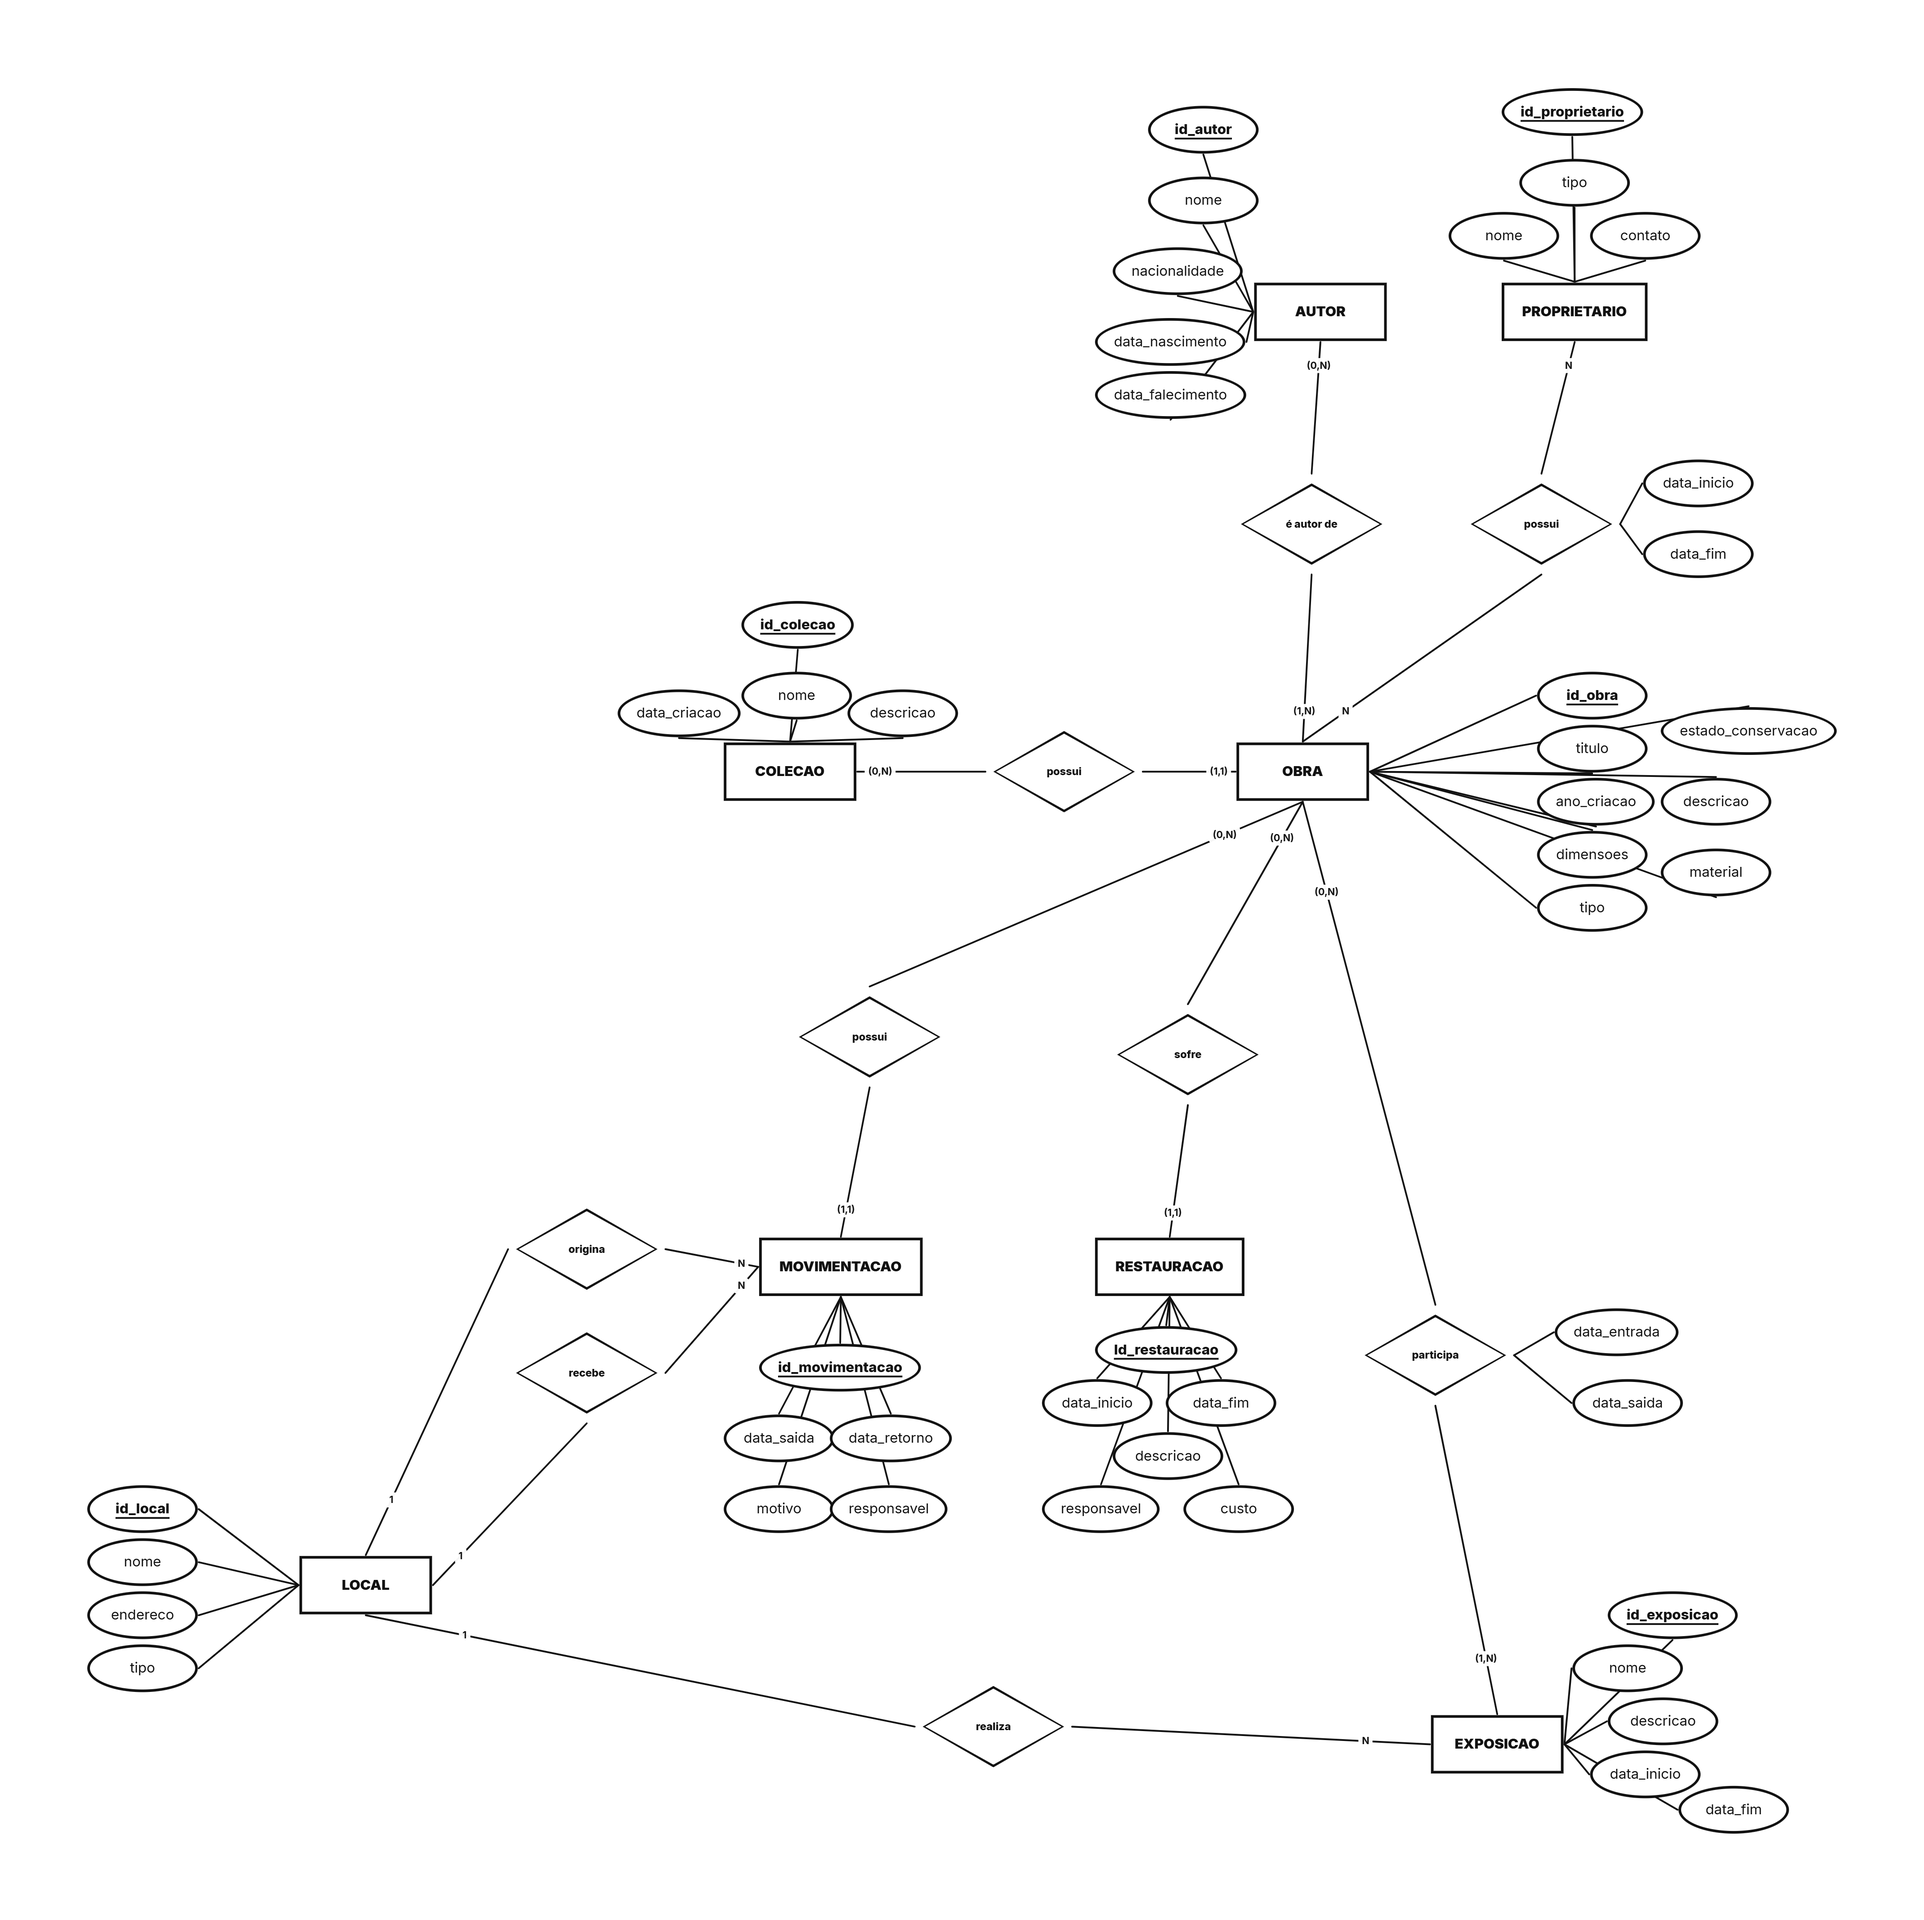
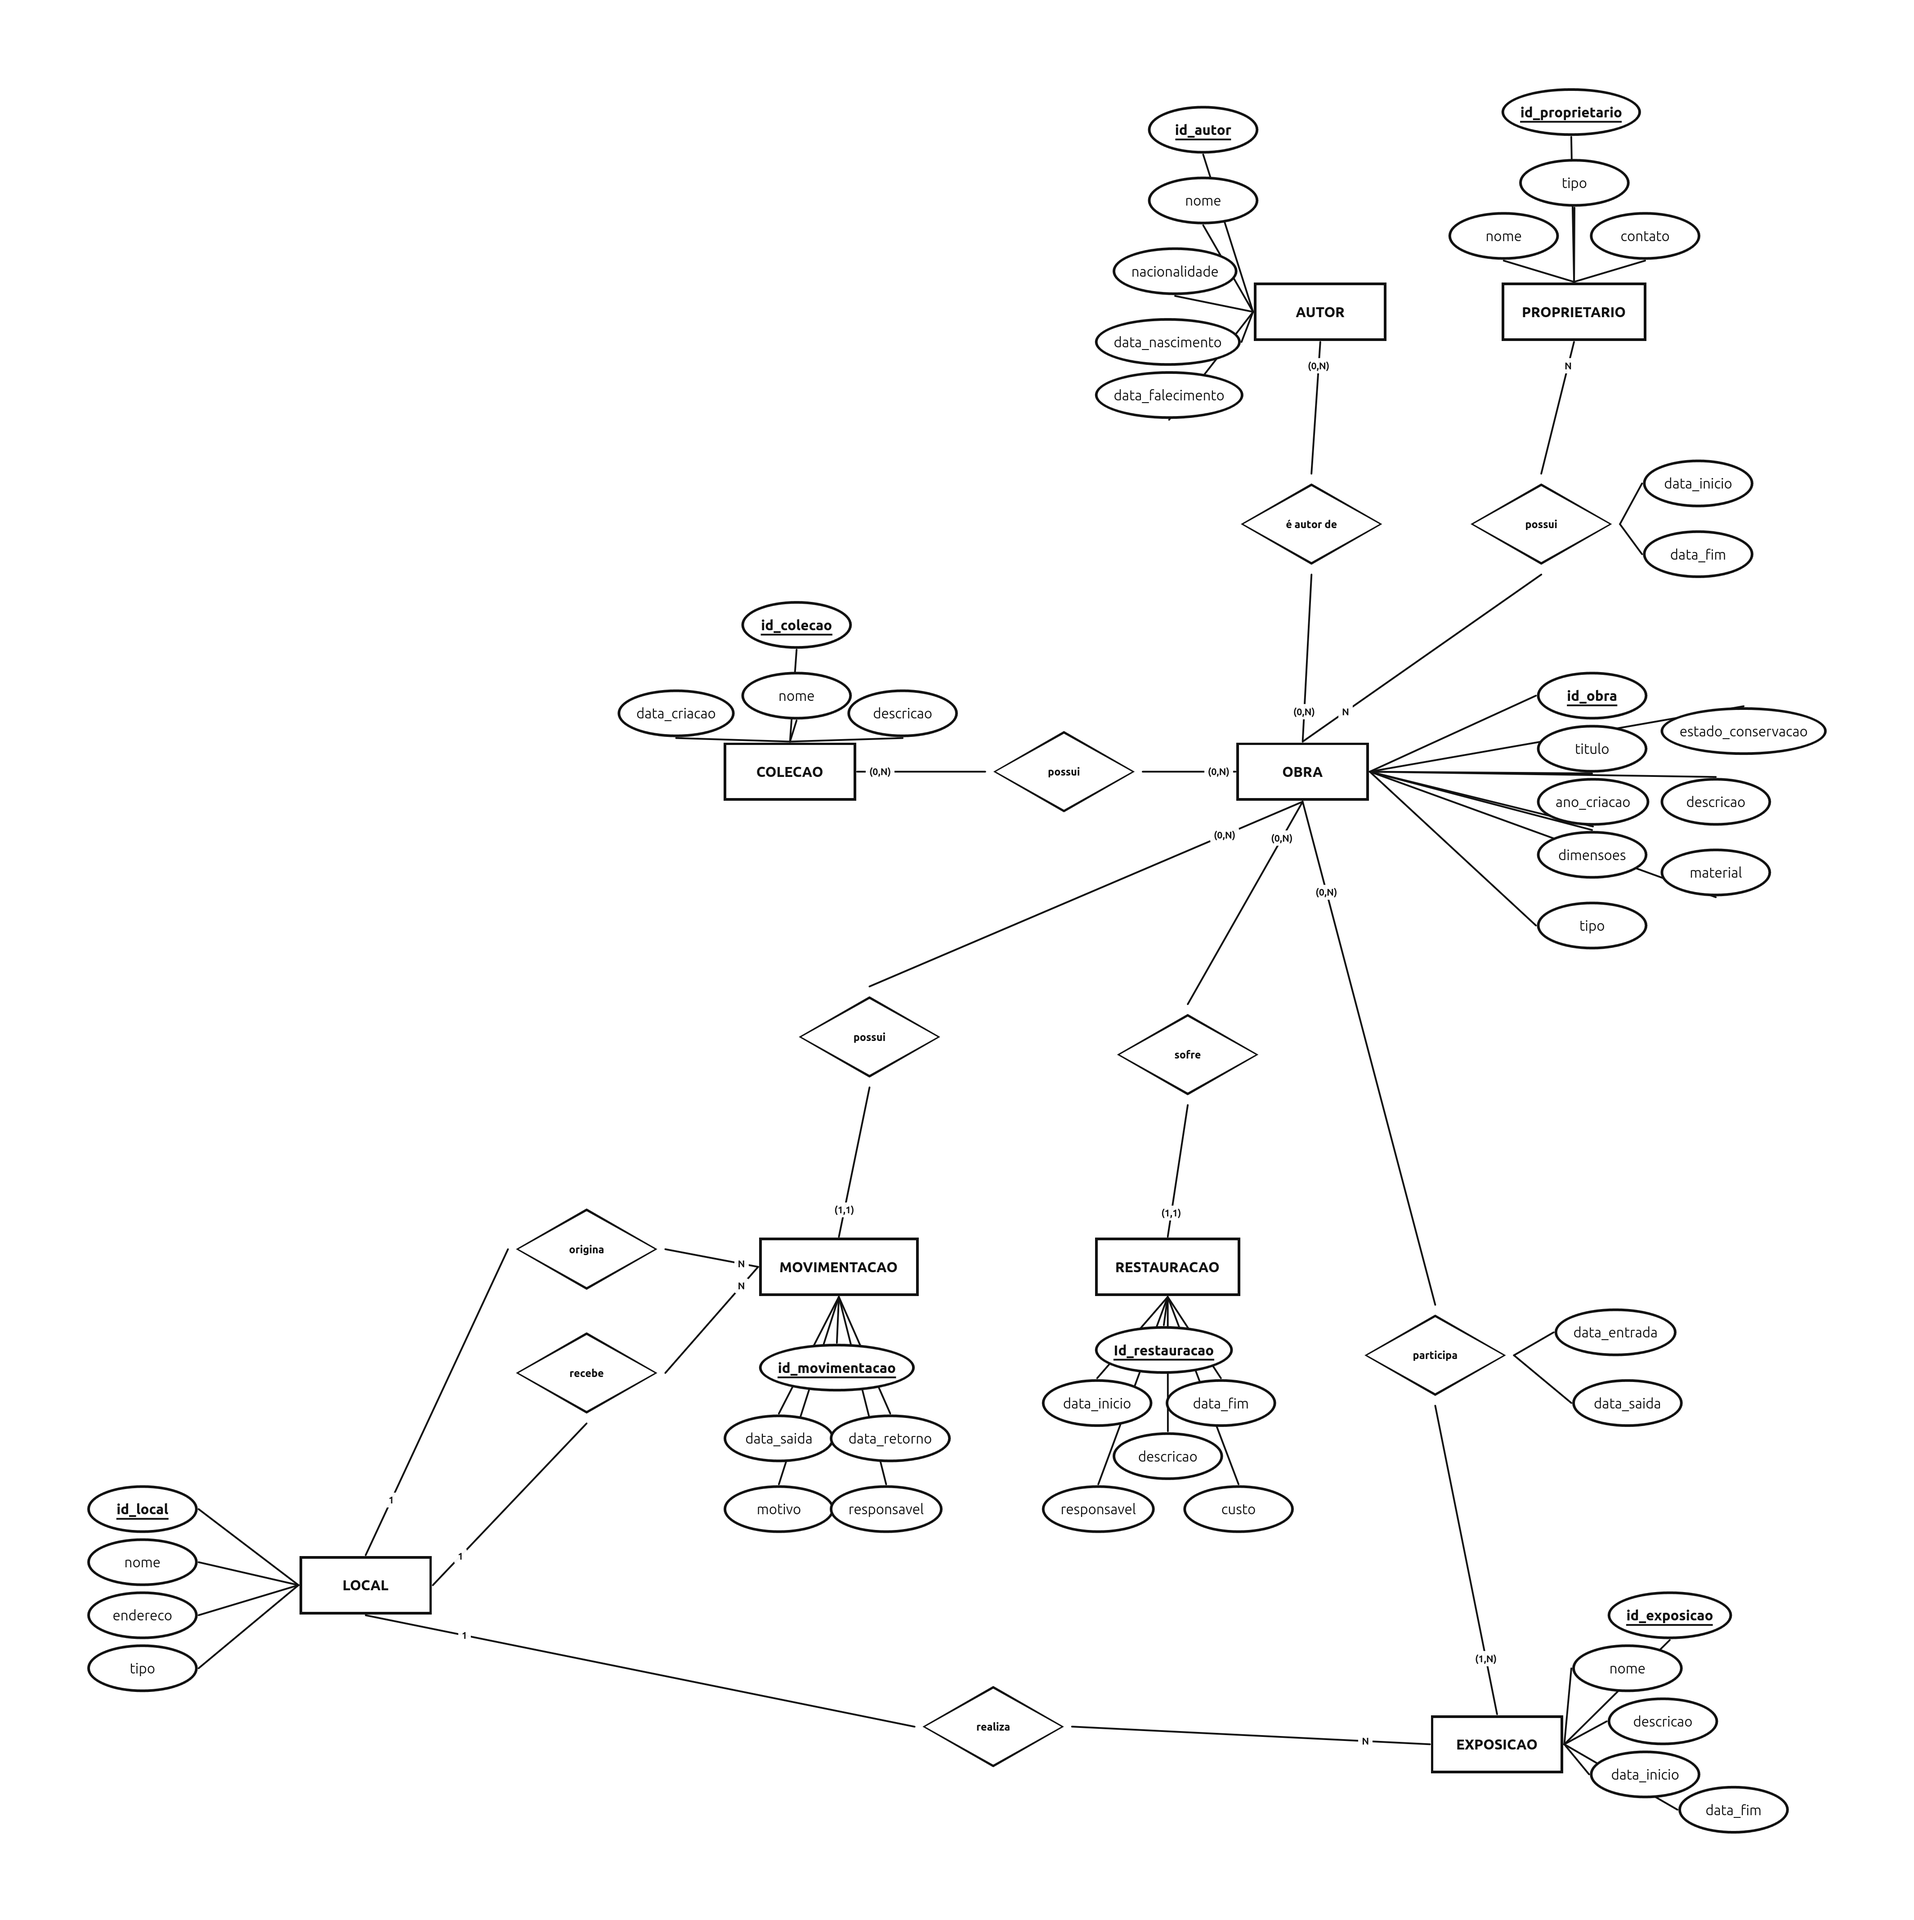
organizando modeloer

diff --git a/README.md b/README.md
@@ -32,7 +32,7 @@ O projeto foi desenvolvido no contexto da disciplina de **Banco de Dados**, pass
 
 O banco de dados é baseado no seguinte modelo conceitual:
 
-> ![Modelo Entidade-Relacionamento](BD_arqmuse/modeloER.png)
+> ![Modelo Entidade-Relacionamento](modeloER.png)
 
 O modelo contém as seguintes entidades:
 
